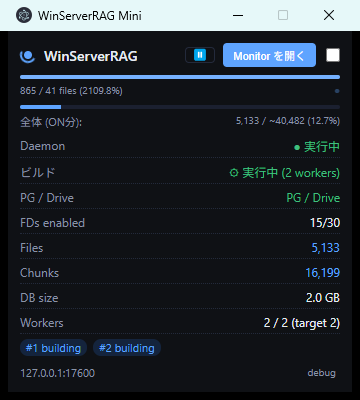
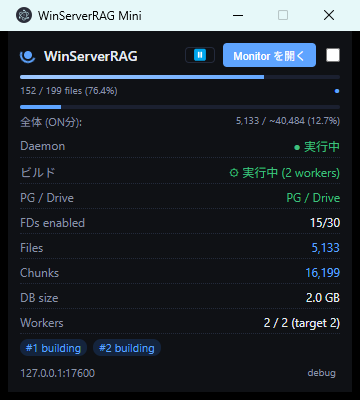
docs: add Web Monitor screenshot to README
Web UI スクショを Mini Monitor と並べて README 冒頭に追加。FastAPI 上の
SPA が GPU 利用率 (RTX 4070 SUPER · 28% · 2.1/12.0GB · 6W)、worker
カード (#1/#2 BUILDING with progress bars)、ドライブ一覧、MCP 検索設定
タブを 1 画面で見せている状態を撮影。Mini Monitor は同じデータを
250ms ポーリングで小型表示している対比が直感的に伝わるようにした。

ついでに Mini Monitor スクショも最新ビルドで撮り直し (target=2 live=2,
strikethrough なしの正常状態を確実に映している)。

Changed region(s): [[0.0611, 0.18, 0.3361, 0.24], [0.7333, 0.18, 0.9472, 0.24], [0.825, 0.3, 0.8556, 0.33]]

diff --git a/README.md b/README.md
@@ -14,6 +14,12 @@ Claude Cowork / Claude Desktop / 任意の MCP クライアントから **MCP (M
 > 🔧 **運用**: 4 並列ワーカー、自動差分同期、ゾンビ GC、障害耐性
 
 <p align="center">
+  <img src="docs/screenshots/web-ui.png" alt="WinServerRAG Web Monitor — full operational console at http://127.0.0.1:17600/">
+</p>
+
+<p align="center"><sub>Web Monitor (`http://127.0.0.1:17600/`)。GPU 利用率・worker カード・ドライブ一覧・MCP 検索設定タブを 1 画面で。FastAPI 上で動く SPA、Mini Monitor と同じ `/api/stats` を裏で叩く。</sub></p>
+
+<p align="center">
   <img src="docs/screenshots/mini-monitor.png" alt="WinServerRAG Mini Monitor — always-on-top desktop client" width="360">
 </p>
 
